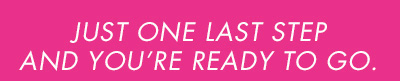
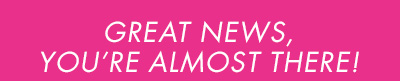
Changing copy + updating header

Changed region(s): [[0.03, 0.6173, 0.96, 0.9136], [0.15, 0.2469, 0.84, 0.5679]]

diff --git a/index.html b/index.html
@@ -27,7 +27,7 @@
         <tr width="600" bgcolor="#e9318a">
             <td height="123" align="center">
                 <img src="copy_top.jpg" align="center" class="copy" style="display:block; border:none; align:center;" >
-                <p class="text" style="font-style: italic;">Please click the button below to verify your email address.</p>
+                <p class="text" style="font-style: italic;">Don't forget to complete your registration <br/>by verifying your email address.<br/><br/>Just click the button below.</p>
             </td>
         </tr>
         
